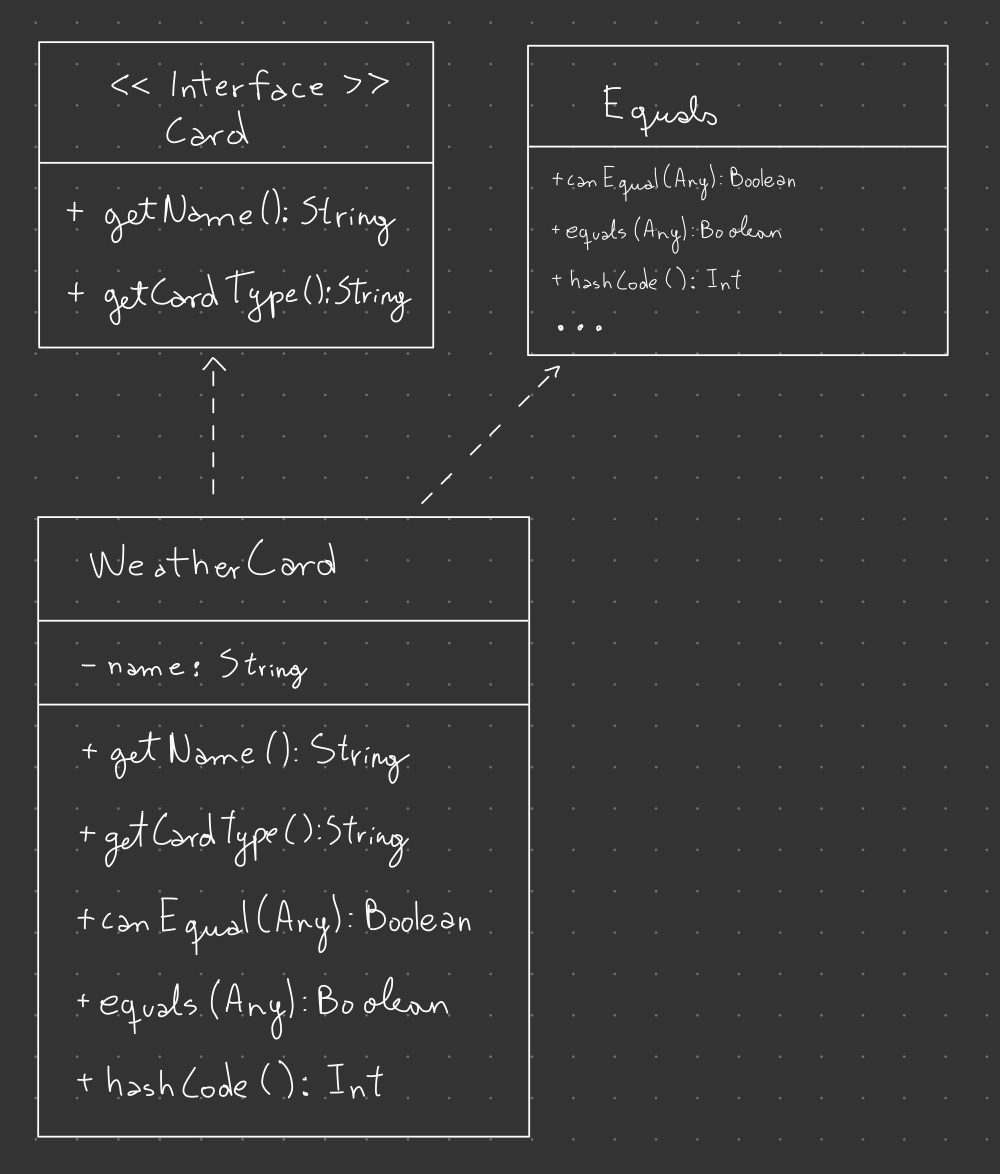
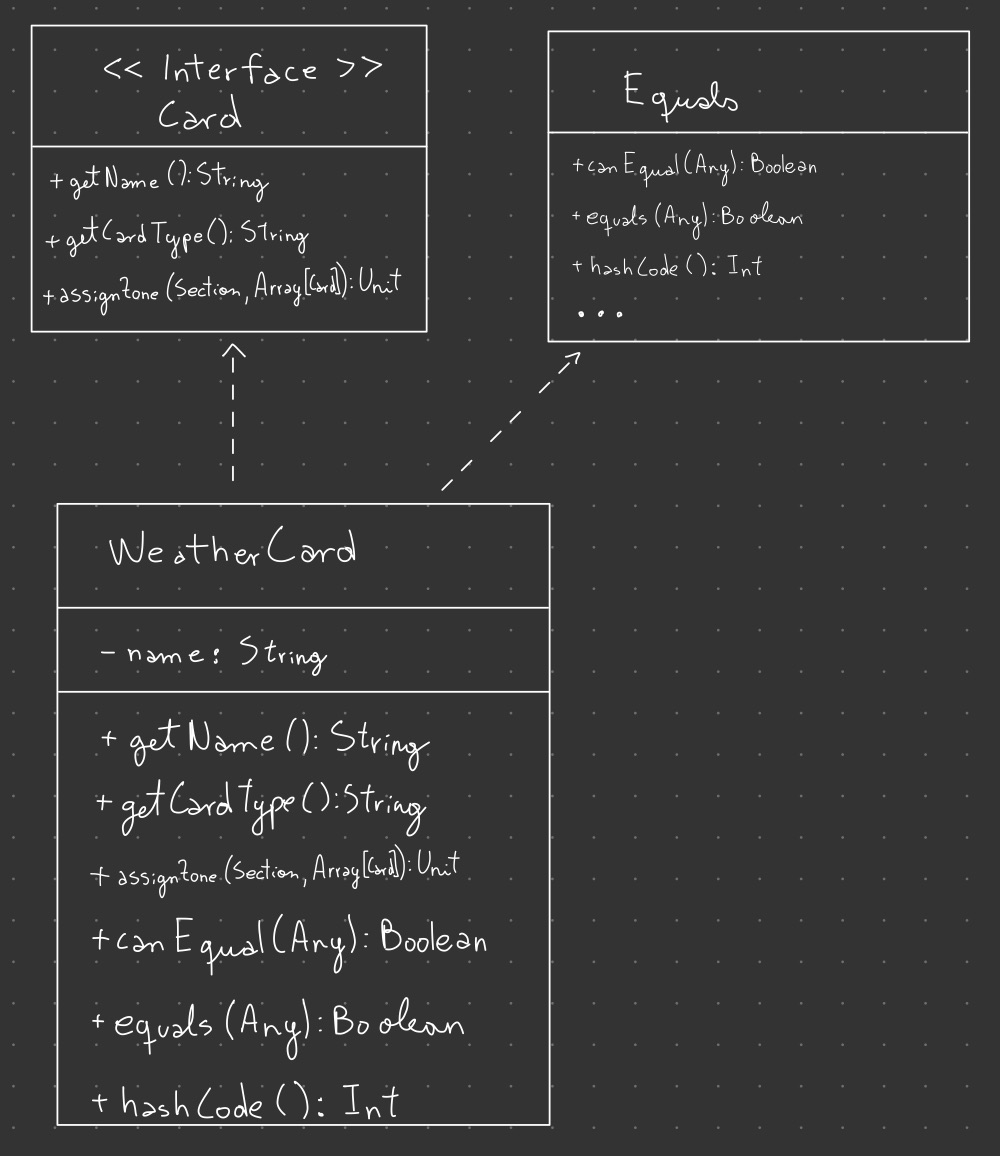
REFACTOR: se implementa el trait Section  para no usar BoardSection como tipo

diff --git a/README.md b/README.md
@@ -13,19 +13,18 @@ This project's goal is to create a (simplified) clone of the
 
 ## Cartas
 Se crea un Trait Card en el cual se especifica todo lo que debe tener todas las cartas. 
-Este Trait va a ser implementado  por las clases WeatherCard y UnitCard (abstract). Además, 
-Se crea una carta especial (emptyCard) cuya única función es ser devuelta cuando Deck o CardsHand
-están vacíos y de esta forma señalar que esta vacío.
+Este Trait va a ser implementado por las clases WeatherCard y UnitCard (abstract). Dentro de las funciones que deben 
+tener las cartas se encuentra tener que saber a qué zona o fila asignarse mediante el método "assignZone"
 
 ### Interface de carta:
 Todas las cartas comparten una interface (Trait "Card") en común que especifica los métodos que deben tener todas 
 las cartas. Todas las cartas deben tener un nombre y un tipo (clima, cuerpo a cuerpo, a distancia o de 
 asedio) por lo que deben tener un método que devuelva estos valores para poder utilizarlos, 
-respectivamente estos métodos son getName y getCardType.
+respectivamente estos métodos son getName y getCardType. Además, tienen un método assignZone que asigna donde debería 
+quedar la carta cuando es jugada en el tablero.
 
 ![Esquema UML de Card](Card(Trait).jpg)
 
-En un futuro cuando se implemente el tablero se usara getCardType para identificar a que parte de este debe ir cada carta.
 
 
 
@@ -59,13 +58,6 @@ Esta clase define los métodos getName y getStrength que devuelve el nombre y fu
    Esta subclase de UnitCard representa las cartas cuerpo a cuerpo, hereda los métodos getName y getStrength
    de UnitCard y añade la implementación del método getCardType para que devuelva "DistanceCard"
 
-#### emptyCard:
-La clase emptyCard es un tipo especial de "Carta", dado que en si no es una carta, sino que señala que no se puede 
-devolver una carta. Se crea este tipo dado que tanto en Deck como en CardsHand tienen un método que 
-devuelve una carta. En el caso de que no tengan una carta para entregar van a devolver este tipo especial 
-para que el programa sepa que ya no quedan cartas.
-
-![Esquema UML de emptyCard](emptyCard.jpg)
 ---
 
 ## Jugadores
@@ -92,6 +84,25 @@ que el juego se comporte como si se hubiese barajado el mazo.
 A diferencia del mazo, la mano de cartas comienza sin cartas, se le pueden ir agregando cartas cuando el jugador 
 robe cartas del mazo y perderá una carta cuando el jugador juegue una carta.
 
+## Tablero de Juego
+La clase Board representa el tablero de juego, esta clase tiene los métodos necesarios para que los jugadores jueguen sus cartas
+y estás mediante double dispatch sepan en qué fila deban ser asignadas. Se crea un método para cada sección y que este
+reciba al jugador, ya que conceptualmente creo que no es el tablero el que sabe la sección del jugador sino que debería ser una clase
+de juego el que lo sepa y llame estos métodos.
+
+Las secciones 1 y 2 se implementan mediante la clase BoardSection.
+
+![Esquema UML de Board](Board.jpg)
+
+### BoardSection
+La representación de las secciones se hace mediante la clase BoardSection que contiene las 3 filas de cada sección:
+* Cuerpo a cuerpo
+* Distancia
+* Asedio
+estas filas son arreglos con hasta 6 cartas, en donde cada uno recibe el tipo de carta correspondiente
+
+## UML Global
+![Esquema UML](UML%20global.jpg)
 ---
 **The rest of the documentation is left for the users of this template to complete**
 
